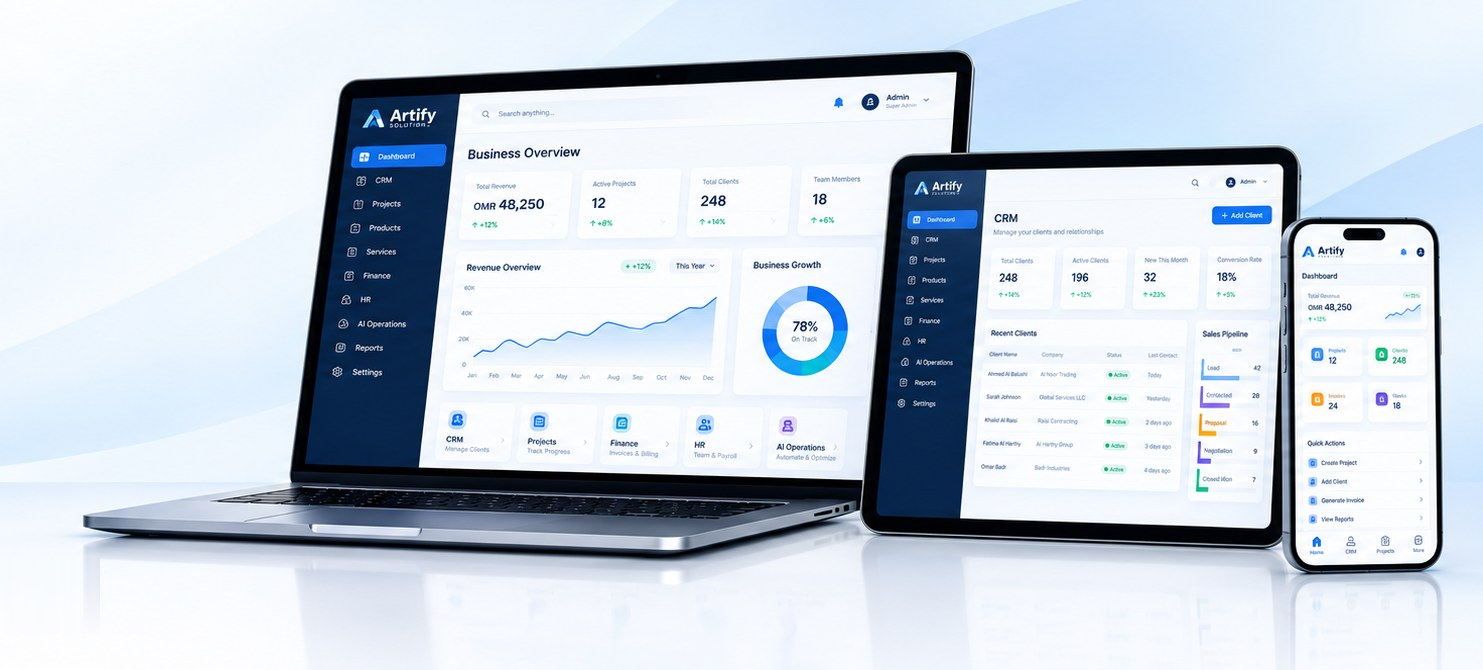
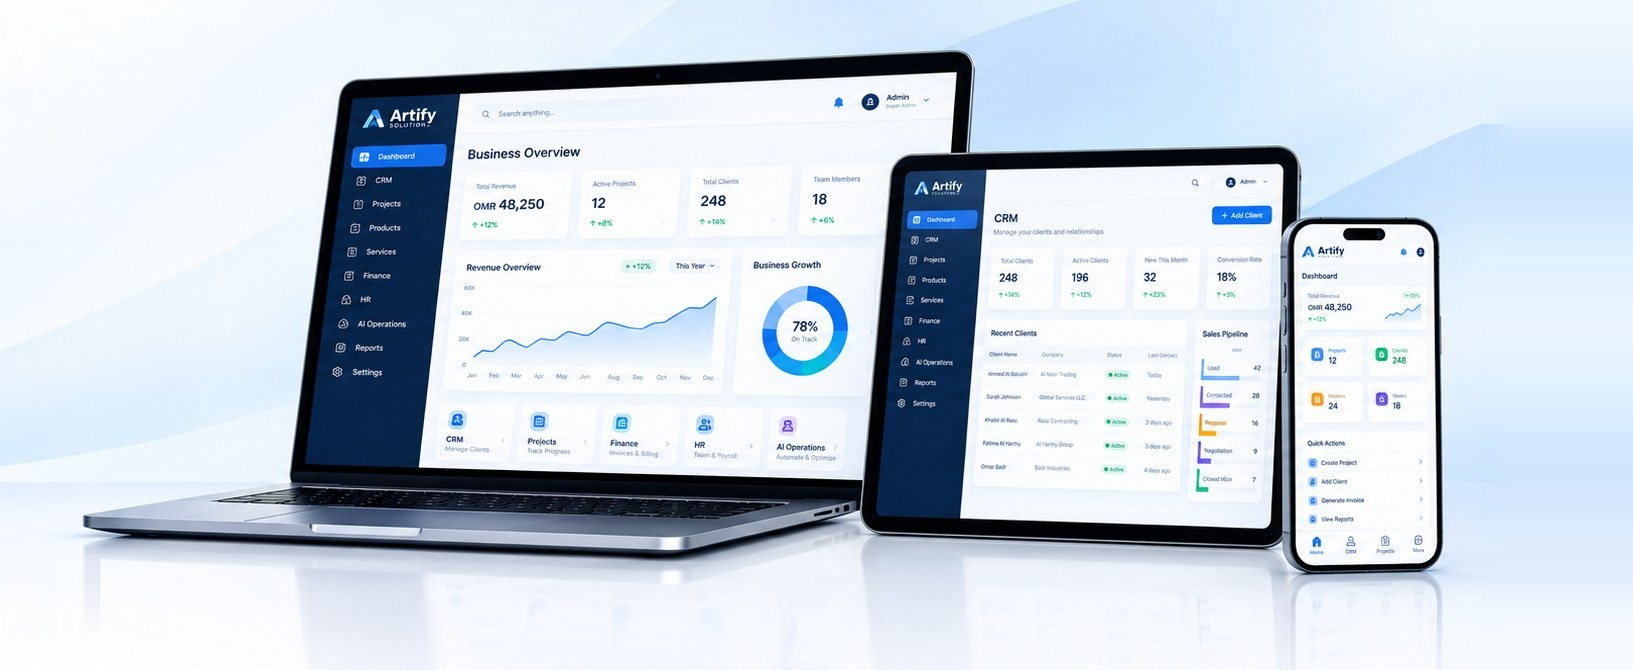
Hero devices image: phone stays fully visible; the fade now happens in an added margin to its right
Claude-Session: https://claude.ai/code/session_01UCsbZfytXsh36Ck7cx3dcQ

Changed region(s): [[0.031, 0.0597, 0.9926, 0.9254], [0.9305, 0.209, 0.9616, 0.2388], [0.4032, 0.3284, 0.4343, 0.3582]]

diff --git a/src/index.css b/src/index.css
@@ -2098,8 +2098,8 @@ main[data-home-layout='true'] section:not(#hero) > .relative.z-10 {
 
 /* Hero device image: soft edges so its light background blends into the page */
 .hero-devices {
-  -webkit-mask-image: linear-gradient(to right, transparent 0%, #000 14%, #000 84%, transparent 100%), linear-gradient(to bottom, transparent 0%, #000 12%, #000 80%, transparent 100%);
-  mask-image: linear-gradient(to right, transparent 0%, #000 14%, #000 84%, transparent 100%), linear-gradient(to bottom, transparent 0%, #000 12%, #000 80%, transparent 100%);
+  -webkit-mask-image: linear-gradient(to right, transparent 0%, #000 14%, #000 88%, transparent 100%), linear-gradient(to bottom, transparent 0%, #000 12%, #000 80%, transparent 100%);
+  mask-image: linear-gradient(to right, transparent 0%, #000 14%, #000 88%, transparent 100%), linear-gradient(to bottom, transparent 0%, #000 12%, #000 80%, transparent 100%);
   -webkit-mask-composite: source-in;
   mask-composite: intersect;
 }
@@ -2115,9 +2115,9 @@ main[data-home-layout='true'] section:not(#hero) > .relative.z-10 {
 
 /* Phones and tablets: full-width image, only a light fade at the edges so the devices stay fully visible */
 .hero-devices-m {
-  /* no fade on the right edge: the phone on the right must stay fully visible */
-  -webkit-mask-image: linear-gradient(to right, transparent 0%, #000 5%, #000 100%), linear-gradient(to bottom, transparent 0%, #000 8%, #000 84%, transparent 100%);
-  mask-image: linear-gradient(to right, transparent 0%, #000 5%, #000 100%), linear-gradient(to bottom, transparent 0%, #000 8%, #000 84%, transparent 100%);
+  /* the artwork has a margin on its right; only that margin fades, the phone stays fully visible */
+  -webkit-mask-image: linear-gradient(to right, transparent 0%, #000 5%, #000 90%, transparent 100%), linear-gradient(to bottom, transparent 0%, #000 8%, #000 84%, transparent 100%);
+  mask-image: linear-gradient(to right, transparent 0%, #000 5%, #000 90%, transparent 100%), linear-gradient(to bottom, transparent 0%, #000 8%, #000 84%, transparent 100%);
   -webkit-mask-composite: source-in;
   mask-composite: intersect;
 }

diff --git a/src/components/Hero.tsx b/src/components/Hero.tsx
@@ -16,7 +16,7 @@ const DevicesPicture: React.FC<{ className: string }> = ({ className }) => (
     <img
       src="/hero-devices.jpg"
       alt="The Artify platform running on a laptop, a tablet and a phone"
-      width={1483}
+      width={1633}
       height={670}
       fetchPriority="high"
       draggable={false}
